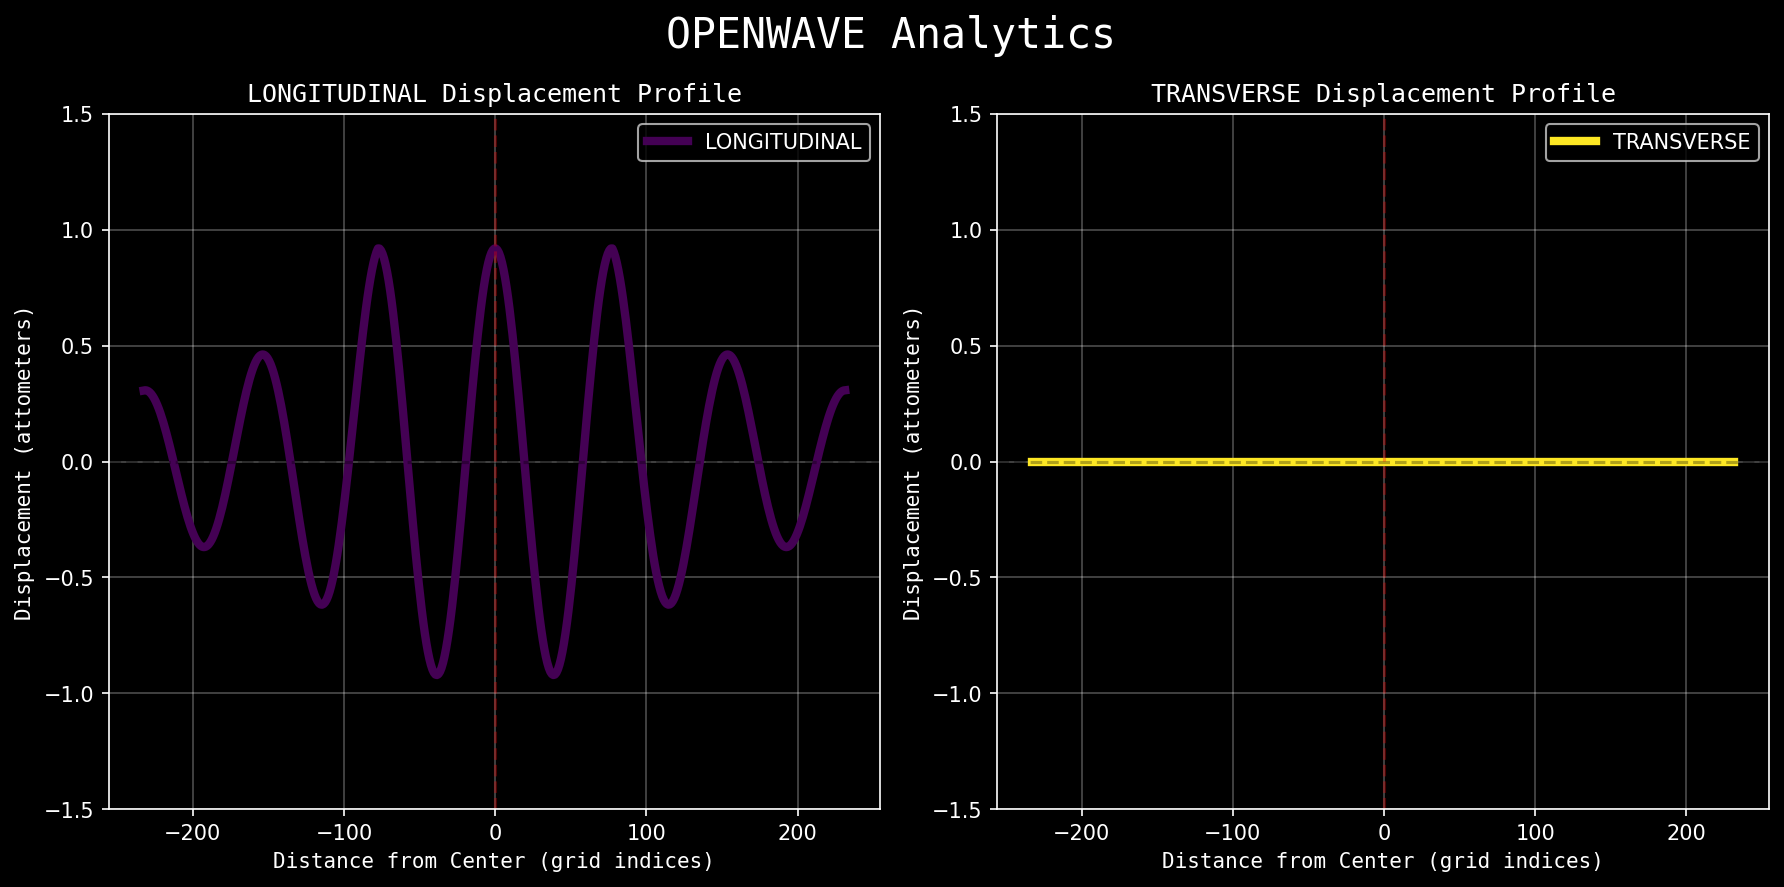
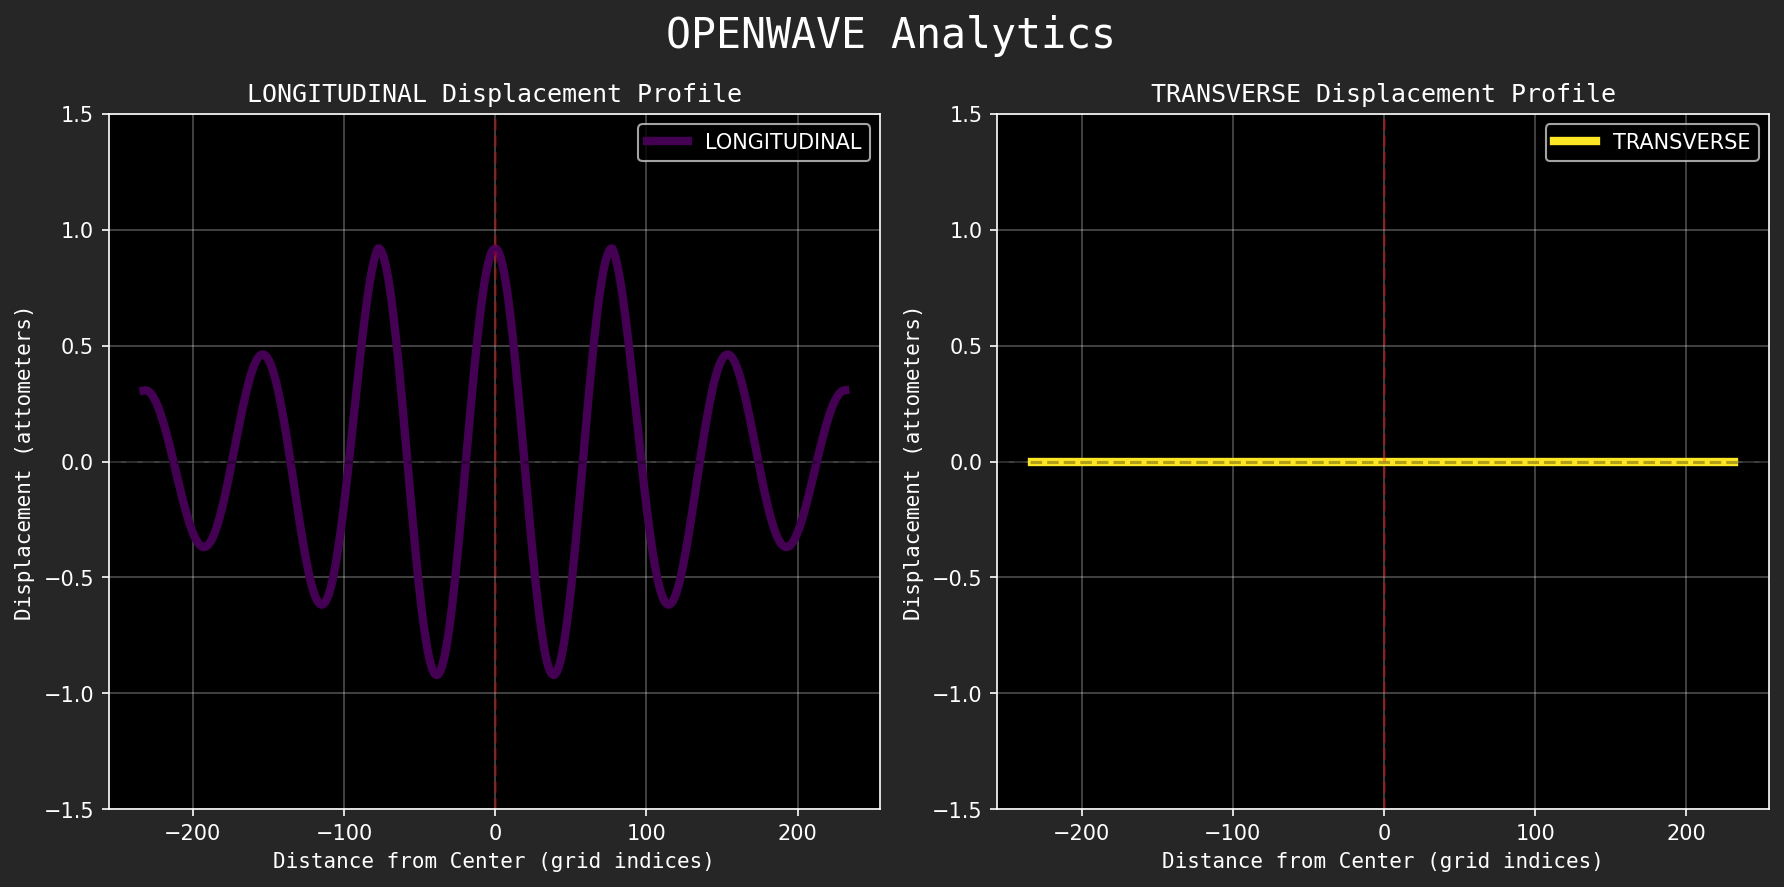
Refactor displacement field to use scalar values
Updated the wave_field.displacement_am and displacement_old_am arrays to store scalar displacement values instead of arrays with longitudinal and transverse components. Adjusted all relevant code sections to reflect this change, simplifying the data structure and setting the transverse displacement to zero where needed. Also updated the displacement profile plot background color and replaced the displacement_profile.png image.

diff --git a/openwave/spacetime/L1_wave_engine.py b/openwave/spacetime/L1_wave_engine.py
@@ -68,10 +68,8 @@ def initiate_charge(
         disp_old = base_amplitude_am * ti.cos(omega * -dt_frame - wave_number * r_grid)
 
         # Apply both longitudinal and transverse displacement (in attometers)
-        wave_field.displacement_am[i, j, k][0] = disp  # at time t=0
-        wave_field.displacement_old_am[i, j, k][0] = disp_old  # at time t=-1
-        wave_field.displacement_am[i, j, k][1] = 0.0  # no transverse component
-        wave_field.displacement_old_am[i, j, k][1] = 0.0  # no transverse component
+        wave_field.displacement_am[i, j, k] = disp  # at time t=0
+        wave_field.displacement_old_am[i, j, k] = disp_old  # at time t=-1
 
 
 # TODO: remove amplitude falloff post propagation implementation
@@ -134,10 +132,8 @@ def initiate_falloff(
         disp_old = amplitude_am_at_r * ti.cos(omega * -dt_frame - wave_number * r_grid)
 
         # Apply both longitudinal and transverse displacement (in attometers)
-        wave_field.displacement_am[i, j, k][0] = disp  # at time t=0
-        wave_field.displacement_old_am[i, j, k][0] = disp_old  # at time t=-1
-        wave_field.displacement_am[i, j, k][1] = 0.0  # no transverse component
-        wave_field.displacement_old_am[i, j, k][1] = 0.0  # no transverse component
+        wave_field.displacement_am[i, j, k] = disp  # at time t=0
+        wave_field.displacement_old_am[i, j, k] = disp_old  # at time t=-1
 
 
 @ti.kernel
@@ -180,7 +176,7 @@ def update_flux_mesh_colors(
     # Always update all planes (conditionals cause GPU branch divergence)
     for i, j in ti.ndrange(wave_field.nx, wave_field.ny):
         # Sample longitudinal displacement at this voxel
-        disp_value = wave_field.displacement_am[i, j, center_k][0]
+        disp_value = wave_field.displacement_am[i, j, center_k]
 
         # Map displacement to color using selected gradient
         if color_palette == 2:  # blueprint
@@ -201,7 +197,7 @@ def update_flux_mesh_colors(
     # ================================================================
     for i, k in ti.ndrange(wave_field.nx, wave_field.nz):
         # Sample longitudinal displacement at this voxel
-        disp_value = wave_field.displacement_am[i, center_j, k][0]
+        disp_value = wave_field.displacement_am[i, center_j, k]
 
         # Map displacement to color using selected gradient
         if color_palette == 2:  # blueprint
@@ -222,7 +218,7 @@ def update_flux_mesh_colors(
     # ================================================================
     for j, k in ti.ndrange(wave_field.ny, wave_field.nz):
         # Sample longitudinal displacement at this voxel
-        disp_value = wave_field.displacement_am[center_i, j, k][0]
+        disp_value = wave_field.displacement_am[center_i, j, k]
 
         # Map displacement to color using selected gradient
         if color_palette == 2:  # blueprint
@@ -361,8 +357,8 @@ def plot_displacement_profile(wave_field):
 
     # Sample longitudinal displacement values
     for i in range(nx):
-        displacements_L[i] = wave_field.displacement_am[i, center_j, center_k][0]
-        displacements_T[i] = wave_field.displacement_am[i, center_j, center_k][1]
+        displacements_L[i] = wave_field.displacement_am[i, center_j, center_k]
+        displacements_T[i] = 0.0
 
     # Calculate distance from center in grid indices
     center_x = nx / 2.0
@@ -370,7 +366,7 @@ def plot_displacement_profile(wave_field):
 
     # Create the plot
     plt.style.use("dark_background")
-    fig = plt.figure(figsize=(12, 6))
+    fig = plt.figure(figsize=(12, 6), facecolor=colormap.DARK_GRAY[1])
     fig.suptitle("OPENWAVE Analytics", fontsize=20, family="Monospace")
 
     # Plot 1: Longitudinal Displacement vs distance from center